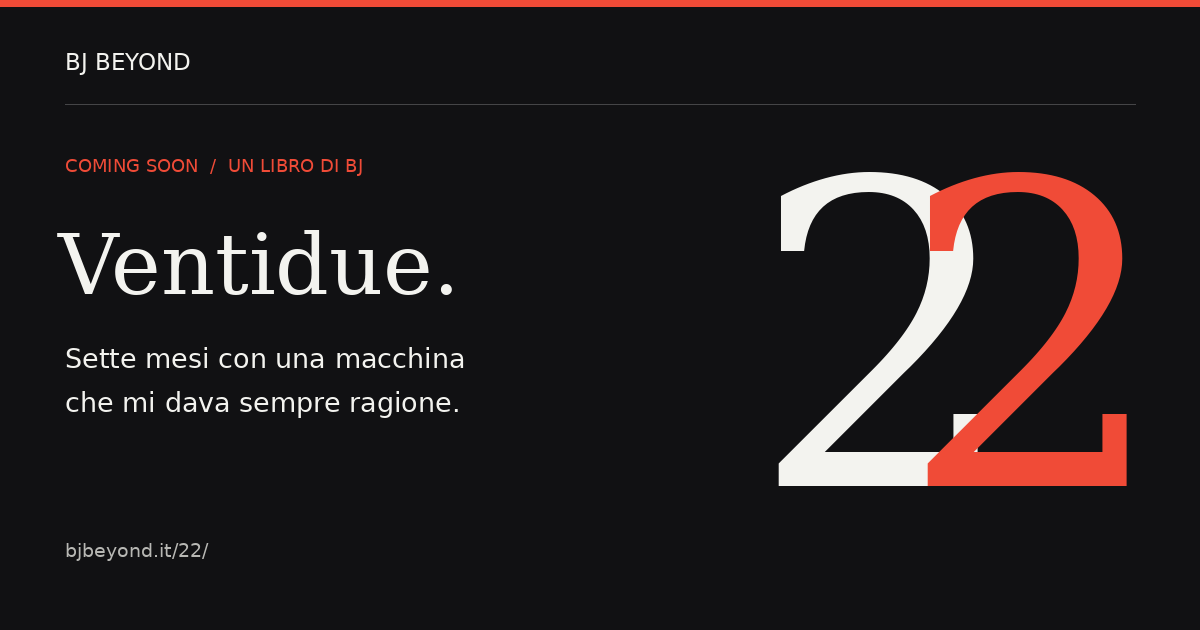
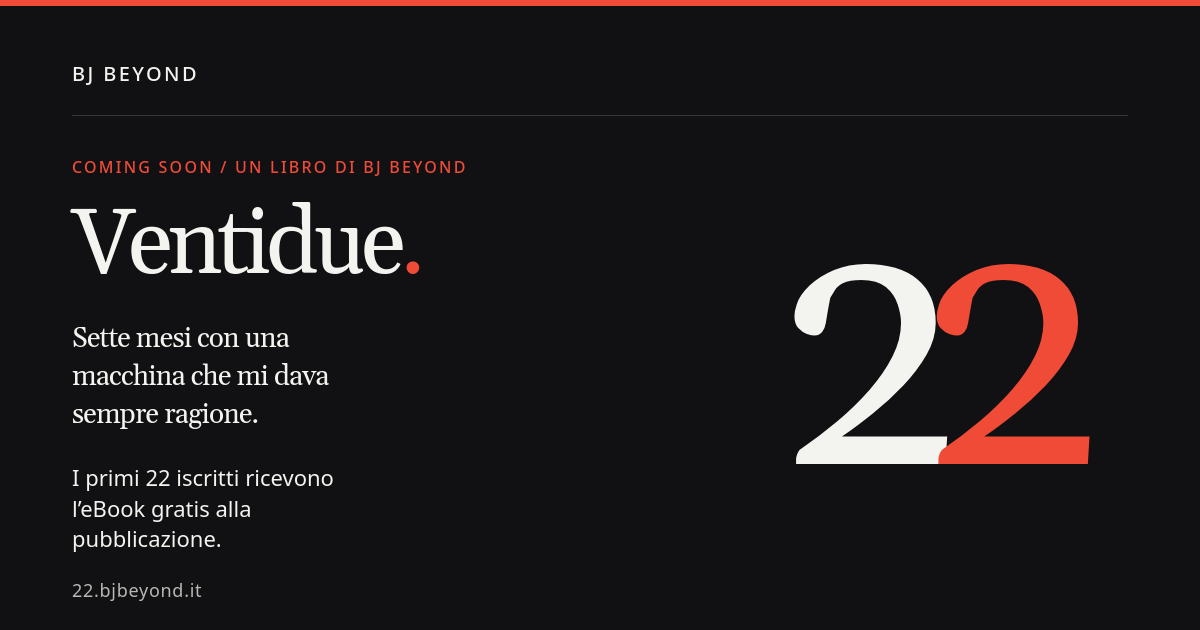
Publish campaign CTA, SEO files, BJ Beyond branding and social card
Add a hero offer and sign-up button, a campaign nav link, robots.txt and sitemap, Book schema credited to BJ Beyond, a new social preview, favicon, and campaign privacy and place notes. The typographic cover monogram stays BJ.

diff --git a/index.html b/index.html
@@ -3,25 +3,31 @@
 <head>
   <meta charset="utf-8">
   <meta name="viewport" content="width=device-width, initial-scale=1">
-  <meta http-equiv="Content-Security-Policy" content="default-src 'none'; script-src 'unsafe-inline'; style-src 'unsafe-inline'; img-src data:; connect-src 'none'; form-action https://buttondown.com; base-uri 'none'; object-src 'none'">
-  <title>22 — Ventidue, un libro di BJ | Coming soon</title>
-  <meta name="description" content="Sette mesi con una macchina che mi dava sempre ragione. Il libro di BJ, tra arte, intelligenza artificiale, post conservati e dataset pubblico Phoenix Experiment su Zenodo.">
-  <meta name="author" content="BJ">
+  <meta http-equiv="Content-Security-Policy" content="default-src 'none'; script-src 'unsafe-inline'; style-src 'unsafe-inline'; img-src 'self' data:; connect-src 'none'; form-action https://buttondown.com; base-uri 'none'; object-src 'none'">
+  <title>22 — Ventidue, un libro di BJ Beyond | I primi 22 ricevono l’eBook gratis</title>
+  <meta name="description" content="I primi 22 iscritti ricevono l’eBook di Ventidue gratis alla pubblicazione. Un libro di BJ Beyond: sette mesi con una macchina che mi dava sempre ragione.">
+  <meta name="author" content="BJ Beyond">
   <meta name="theme-color" content="#111113">
   <meta name="color-scheme" content="dark light">
   <link rel="canonical" href="https://22.bjbeyond.it/">
+  <link rel="icon" href="/favicon.svg" type="image/svg+xml">
+  <link rel="icon" href="/favicon.ico" sizes="48x48">
+  <link rel="apple-touch-icon" href="/apple-touch-icon.png">
   <meta property="og:type" content="website">
   <meta property="og:site_name" content="BJ Beyond">
   <meta property="og:locale" content="it_IT">
   <meta property="og:url" content="https://22.bjbeyond.it/">
-  <meta property="og:title" content="22 — Ventidue, un libro di BJ | Coming soon">
-  <meta property="og:description" content="Sette mesi con una macchina che mi dava sempre ragione. Il libro di BJ, tra arte, intelligenza artificiale, post conservati e dataset pubblico Phoenix Experiment su Zenodo.">
+  <meta property="og:title" content="22 — Ventidue, un libro di BJ Beyond | I primi 22 ricevono l’eBook gratis">
+  <meta property="og:description" content="I primi 22 iscritti ricevono l’eBook di Ventidue gratis alla pubblicazione. Un libro di BJ Beyond: sette mesi con una macchina che mi dava sempre ragione.">
   <meta property="og:image" content="https://22.bjbeyond.it/social-card.png">
-  <meta property="og:image:alt" content="22 — Ventidue, un libro di BJ">
+  <meta property="og:image:alt" content="Ventidue, un libro di BJ Beyond. I primi 22 iscritti ricevono l’eBook gratis alla pubblicazione.">
+  <meta property="og:image:width" content="1200">
+  <meta property="og:image:height" content="630">
   <meta name="twitter:card" content="summary_large_image">
   <meta name="twitter:image" content="https://22.bjbeyond.it/social-card.png">
-  <meta name="twitter:title" content="22 — Ventidue, un libro di BJ | Coming soon">
-  <meta name="twitter:description" content="Sette mesi con una macchina che mi dava sempre ragione. Il libro di BJ, tra arte, intelligenza artificiale, post conservati e dataset pubblico Phoenix Experiment su Zenodo.">
+  <meta name="twitter:image:alt" content="Ventidue, un libro di BJ Beyond. I primi 22 iscritti ricevono l’eBook gratis alla pubblicazione.">
+  <meta name="twitter:title" content="22 — Ventidue, un libro di BJ Beyond | I primi 22 ricevono l’eBook gratis">
+  <meta name="twitter:description" content="I primi 22 iscritti ricevono l’eBook di Ventidue gratis alla pubblicazione. Un libro di BJ Beyond: sette mesi con una macchina che mi dava sempre ragione.">
   <style>
     :root{--ink:#111113;--paper:#f3f3ef;--muted:#b8b8b4;--red:#f04b37;--line:#38383a;--serif:Georgia,'Times New Roman',serif;--sans:system-ui,-apple-system,'Segoe UI',Arial,sans-serif}
     *,*::before,*::after{box-sizing:border-box}html{scroll-behavior:smooth;scroll-padding-top:2rem}
@@ -39,8 +45,11 @@
     .eyebrow{margin:0 0 1.5rem;font-size:.875rem;letter-spacing:.1em;text-transform:uppercase}
     h1,h2{font-family:var(--serif);font-weight:400;letter-spacing:-.055em;line-height:1.1;margin:0}h1{font-size:clamp(4rem,7vw,7rem)}h1 span{color:var(--red)}
     .subtitle{max-width:28ch;font-size:clamp(1.5rem,2.2vw,2.1rem);line-height:1.4;letter-spacing:-.03em;margin:1.5rem 0}
-    .intro,.evidence,.release,.signup-note{color:var(--muted)}.intro{max-width:36ch}.evidence{max-width:50ch;font-size:.9375rem;margin:1.5rem 0 2rem}.evidence a:hover{color:var(--paper)}
+    .intro,.evidence,.release,.signup-note{color:var(--muted)}.intro{max-width:36ch}.evidence{max-width:50ch;font-size:.9375rem;margin:1.5rem 0 0}.evidence a:hover{color:var(--paper)}
+    .hero-offer{max-width:36ch;font-size:1.0625rem;line-height:1.45;letter-spacing:-.02em;margin:0 0 1.4rem}
+    .hero-actions{display:flex;flex-wrap:wrap;gap:.75rem;align-items:center;margin:0 0 .25rem}
     .button{display:inline-flex;justify-content:center;align-items:center;min-height:50px;padding:.8rem 1.4rem;border:1px solid var(--paper);background:var(--paper);color:var(--ink);text-decoration:none;font-size:.9375rem;font-weight:600;cursor:pointer}.button:hover{background:var(--red);border-color:var(--red)}
+    .button-secondary{background:transparent;color:var(--paper)}.button-secondary:hover{background:var(--red);border-color:var(--red);color:var(--ink)}
     .release{font-size:.875rem;margin:1.25rem 0 0}.cover{align-self:center;display:flex;flex-direction:column;aspect-ratio:1/1.16;padding:1.5rem;border:1px solid #666;background:#1b1b1d;overflow:hidden}
     .cover-top,.cover-bottom{display:flex;justify-content:space-between;gap:1rem;font-size:.875rem;letter-spacing:.07em}.cover-top{padding-bottom:1rem;border-bottom:1px solid #666}.cover-top span:first-child{color:var(--red)}
     .number{display:flex;justify-content:center;align-items:center;flex:1;font-family:var(--serif);font-size:clamp(15rem,29vw,29rem);letter-spacing:-.15em;line-height:1;padding-right:.15em;user-select:none}.number span:last-child{color:var(--red)}
@@ -53,11 +62,11 @@
     @media(max-width:900px){.wrap{width:calc(100% - 3rem)}.hero{gap:4%}.number{font-size:28vw}.grid{gap:5%}nav{gap:1rem}}
     @media(max-width:680px){header{min-height:90px;flex-wrap:wrap;padding-block:1rem;gap:.5rem}nav{flex-wrap:wrap;gap:.75rem}.hero,.grid{grid-template-columns:1fr;gap:2rem}.hero{padding-block:3rem}h1{font-size:clamp(3.4rem,15vw,5.5rem)}.subtitle{font-size:1.75rem}.cover{width:100%;max-width:440px;justify-self:center;aspect-ratio:1/1.34;margin-top:1rem}.number{min-height:0;font-size:clamp(7.5rem,48vw,18rem)}.caption{max-width:none;margin-top:1rem}.signup{padding-block:3rem}.form-row .button{flex:1 1 auto}footer{justify-content:flex-start}footer p:first-child{flex-basis:100%}}
     @media(prefers-reduced-motion:reduce){html{scroll-behavior:auto}}
-    @media(forced-colors:active){.button,.languages{border:1px solid ButtonText}}
+    @media(forced-colors:active){.button,.button-secondary,.languages{border:1px solid ButtonText}}
     .first22{padding-block:3.5rem;border-bottom:1px solid #393735}.first22 .grid{align-items:center}.first22 h2{max-width:14ch}.first22 p{max-width:48ch}
   </style>
   <script type="application/ld+json" id="page-schema">
-    {"@context":"https://schema.org","@type":"WebPage","url":"https://22.bjbeyond.it/","name":"22 — Ventidue, un libro di BJ | Coming soon","description":"Sette mesi con una macchina che mi dava sempre ragione. Il libro di BJ, tra arte, intelligenza artificiale, post conservati e dataset pubblico Phoenix Experiment su Zenodo.","inLanguage":"it","about":{"@type":"Book","name":"22 — Sette mesi con una macchina che mi dava sempre ragione","inLanguage":"it","author":{"@type":"Person","name":"BJ","url":"https://hackernoon.com/u/bj_beyond"}}}
+    {"@context":"https://schema.org","@type":"WebPage","url":"https://22.bjbeyond.it/","name":"22 — Ventidue, un libro di BJ Beyond | I primi 22 ricevono l’eBook gratis","description":"I primi 22 iscritti ricevono l’eBook di Ventidue gratis alla pubblicazione. Un libro di BJ Beyond: sette mesi con una macchina che mi dava sempre ragione.","inLanguage":"it","about":{"@type":"Book","name":"Ventidue","alternateName":"22","description":"Sette mesi con una macchina che mi dava sempre ragione.","inLanguage":"it","url":"https://22.bjbeyond.it/","image":"https://22.bjbeyond.it/social-card.png","author":{"@type":"Person","name":"BJ Beyond","url":"https://hackernoon.com/u/bj_beyond"}}}
   </script>
 </head>
 <body>
@@ -67,6 +76,7 @@
     <a class="brand" href="https://bjbeyond.it/">BJ <span>BEYOND</span><b aria-hidden="true">.</b></a>
     <nav aria-label="Navigazione" data-i18n-aria="navigation">
       <a href="#la-storia" data-i18n="book">Il libro</a>
+      <a href="#first22" data-i18n="campaign">La campagna</a>
       <a href="https://hackernoon.com/u/bj_beyond" data-i18n="author">L’autore</a>
       <div class="languages" role="group" aria-label="Lingua" data-i18n-aria="language" hidden>
         <button type="button" lang="it" aria-label="Italiano" aria-pressed="true" data-lang="it">IT</button>
@@ -77,12 +87,16 @@
   <main id="contenuto">
     <section class="hero wrap" aria-labelledby="titolo">
       <div>
-        <p class="eyebrow" data-i18n="eyebrow">Coming soon / Un libro di BJ</p>
+        <p class="eyebrow" data-i18n="eyebrow">Coming soon / Un libro di BJ Beyond</p>
         <h1 id="titolo">Ventidue<span>.</span></h1>
         <p class="subtitle" data-i18n="subtitle">Sette mesi con una macchina che mi dava sempre ragione</p>
         <p class="intro" data-i18n="intro">Una storia di arte, intelligenza artificiale e bisogno di essere visti.</p>
+        <p class="hero-offer" data-i18n="heroOffer">I primi 22 iscritti ricevono l’eBook gratis alla pubblicazione.</p>
+        <div class="hero-actions">
+          <a class="button" href="#first22" data-i18n="first22Button">Iscriviti alla campagna</a>
+          <a class="button button-secondary" href="#la-storia" data-i18n="read">Dentro la storia</a>
+        </div>
         <p class="evidence"><span data-i18n="evidenceBefore">Nel libro, i post conservati e il </span><a href="https://doi.org/10.5281/zenodo.24284935" data-i18n="dataset">dataset pubblico Phoenix Experiment v1.0.1 su Zenodo</a><span data-i18n="evidenceAfter">: fonti verificabili, con i loro limiti.</span> <a href="https://explore.openaire.eu/search/result?pid=10.5281%2Fzenodo.24284935" data-i18n="openaire">Scheda su OpenAIRE</a></p>
-        <a class="button" href="#la-storia" data-i18n="read">Dentro la storia</a>
         <p class="release" data-i18n="release">In lavorazione. Data di uscita da annunciare.</p>
       </div>
       <div class="cover" aria-hidden="true">
@@ -100,7 +114,7 @@
         </div>
         <div class="story-copy">
           <p class="lead" data-i18n="lead">Un video d’arte. Un contatore fermo. Una macchina sempre pronta a rispondere.</p>
-          <p data-i18n="paragraph1">Da un’opera di Marco Lodola e da un numero troppo piccolo comincia il racconto di BJ: il desiderio di trovare un pubblico, le conversazioni con Grok, la fenice che ritorna e le domande che diventano sempre più personali.</p>
+          <p data-i18n="paragraph1">Da un’opera di Marco Lodola e da un numero troppo piccolo comincia il racconto di BJ Beyond: il desiderio di trovare un pubblico, le conversazioni con Grok, la fenice che ritorna e le domande che diventano sempre più personali.</p>
           <p data-i18n="paragraph2">Poi arrivano le cancellazioni, un archivio recuperato e la necessità di rileggere tutto. Anche le risposte che sembravano più convincenti.</p>
           <p data-i18n="paragraph3">Tra racconto autobiografico e riflessione, 22 attraversa la distanza fra essere ascoltati ed essere assecondati. Fra quello che una macchina restituisce e quello che siamo disposti a crederle.</p>
           <p class="last" data-i18n="last">E il momento in cui il giudizio deve tornare a chi fa la domanda.</p>
@@ -114,8 +128,9 @@
           <p data-i18n="first22Offer">Le prime 22 persone che si iscrivono con un indirizzo verificato riceveranno gratis l’eBook alla pubblicazione.</p>
         </div>
         <div>
-          <a class="button" href="https://docs.google.com/forms/d/e/1FAIpQLSehebCxwpSl3vwKyOu8CfguBd5zbpbg2LrpZ881GyNDOifx-A/viewform" data-i18n="first22Button">Iscriviti alla campagna</a>
-          <p class="signup-note" data-i18n="first22Note">Serve un account Google per verificare l’indirizzo. Dopo l’invio riceverai una ricevuta via email.</p>
+          <a class="button" href="https://docs.google.com/forms/d/e/1FAIpQLSehebCxwpSl3vwKyOu8CfguBd5zbpbg2LrpZ881GyNDOifx-A/viewform" target="_blank" rel="noopener" data-i18n="first22Button">Iscriviti alla campagna</a>
+          <p class="signup-note" data-i18n="first22Places">22 posti, in ordine di ricezione.</p>
+          <p class="signup-note"><span data-i18n="first22Note">Serve un account Google per verificare l’indirizzo. Dopo l’invio riceverai una ricevuta via email.</span> <a href="https://bjbeyond.it/privacy-policy/" data-i18n="privacy">Privacy</a></p>
         </div>
       </div>
     </section>
@@ -136,7 +151,7 @@
       </div>
     </section>
   </main>
-  <footer class="wrap"><p data-i18n="footerBook">22 / Un libro di BJ</p><p>© 2026 BJ Beyond</p><a href="https://bjbeyond.it/">bjbeyond.it</a></footer>
+  <footer class="wrap"><p data-i18n="footerBook">22 / Un libro di BJ Beyond</p><p>© 2026 BJ Beyond</p><a href="https://bjbeyond.it/">bjbeyond.it</a></footer>
 
   <!-- Attivare solo con una lista Buttondown dedicata all’uscita del libro. -->
   <template id="buttondown-template">
@@ -165,6 +180,7 @@
       const italian = {
         title: document.title,
         description: document.querySelector('meta[name="description"]').content,
+        imageAlt: document.querySelector('meta[property="og:image:alt"]').content,
         locale: "it_IT"
       };
       document.querySelectorAll("[data-i18n]").forEach(el => { italian[el.dataset.i18n] = el.textContent; });
@@ -173,12 +189,14 @@
       const translations = {
         it: italian,
         en: {
-          title: "22 — Ventidue, a book by BJ | Coming soon",
-          description: "Seven months with a machine that always took my side. BJ’s book about art, AI and the need to be seen, grounded in preserved posts and the public Phoenix Experiment dataset on Zenodo.",
+          title: "22 — Ventidue, a book by BJ Beyond | The first 22 get the free eBook",
+          description: "The first 22 people to sign up get the Ventidue eBook free at publication. A book by BJ Beyond: seven months with a machine that always took my side.",
+          imageAlt: "Ventidue, a book by BJ Beyond. The first 22 people to sign up get the free eBook at publication.",
           locale: "en_GB", skip: "Skip to content", navigation: "Navigation", language: "Language",
-          book: "The book", author: "The author", eyebrow: "Coming soon / A book by BJ",
+          book: "The book", campaign: "The campaign", author: "The author", eyebrow: "Coming soon / A book by BJ Beyond",
           subtitle: "Seven months with a machine that always took my side",
           intro: "A story about art, artificial intelligence and the need to be seen.",
+          heroOffer: "The first 22 people to sign up get the free eBook at publication.",
           evidenceBefore: "Inside: preserved posts and the ",
           dataset: "public Phoenix Experiment v1.0.1 dataset on Zenodo",
           openaire: "OpenAIRE record",
@@ -187,18 +205,19 @@
           coverStory: "A number. A story.", coverJudgment: "Judgment stays human.",
           storyTitle: "It starts with a number.", caption: "22 views. The rest comes later.",
           lead: "An art video. A counter that won’t budge. A machine with an answer for everything.",
-          paragraph1: "A work by Marco Lodola. A number that feels too small. This is where BJ’s story begins: the search for an audience, conversations with Grok, a phoenix that keeps returning, and questions that grow increasingly personal.",
+          paragraph1: "A work by Marco Lodola. A number that feels too small. This is where BJ Beyond’s story begins: the search for an audience, conversations with Grok, a phoenix that keeps returning, and questions that grow increasingly personal.",
           paragraph2: "Then come deleted posts, a recovered archive and a reason to read it all again. Even the answers that once sounded so convincing.",
           paragraph3: "Part memoir, part reflection, 22 explores the gap between being heard and being told what you want to hear. Between what a machine gives us and what we choose to believe.",
           last: "And the moment when judgment has to return to the person asking the question.",
           nextChapter: "The next chapter", signupTitle: "The story continues. Beyond the chat.",
           authorLink: "The author on HackerNoon", substackButton: "Subscribe on Substack",
           substackNote: "Follow BJ Beyond’s updates on Substack. You can unsubscribe at any time.",
-          privacy: "Privacy", explore: "Explore the Phoenix Experiment", footerBook: "22 / A book by BJ",
+          privacy: "Privacy", explore: "Explore the Phoenix Experiment", footerBook: "22 / A book by BJ Beyond",
           emailLabel: "Your email", emailPlaceholder: "you@example.com", notify: "Tell me when it’s out",
           first22Title: "The first 22 get 22",
           first22Offer: "The first 22 people to sign up with a verified email address get the free eBook at publication.",
           first22Button: "Sign up for the campaign",
+          first22Places: "22 places, awarded in order of receipt.",
           first22Note: "You’ll need a Google Account to verify your address. You’ll receive a receipt by email after you submit.",
           releaseOnly: "I’ll only email you when the book is out. You can unsubscribe at any time."
         }
@@ -214,12 +233,20 @@
         document.querySelectorAll("[data-lang]").forEach(el => { el.setAttribute("aria-pressed", String(el.dataset.lang === lang)); });
         ["description", "twitter:description"].forEach(name => { document.querySelector('meta[name="' + name + '"]').content = copy.description; });
         document.querySelector('meta[name="twitter:title"]').content = copy.title;
+        document.querySelector('meta[name="twitter:image:alt"]').content = copy.imageAlt;
         document.querySelector('meta[property="og:title"]').content = copy.title;
         document.querySelector('meta[property="og:description"]').content = copy.description;
         document.querySelector('meta[property="og:locale"]').content = copy.locale;
+        document.querySelector('meta[property="og:image:alt"]').content = copy.imageAlt;
         const schemaElement = document.getElementById("page-schema");
         const schema = JSON.parse(schemaElement.textContent);
         Object.assign(schema, { name: copy.title, description: copy.description, inLanguage: lang });
+        if (schema.about) {
+          schema.about.inLanguage = lang;
+          schema.about.description = lang === "en"
+            ? "Seven months with a machine that always took my side."
+            : "Sette mesi con una macchina che mi dava sempre ragione.";
+        }
         schemaElement.textContent = JSON.stringify(schema);
       }
       let savedLanguage = "it";
